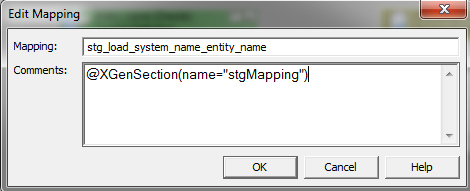
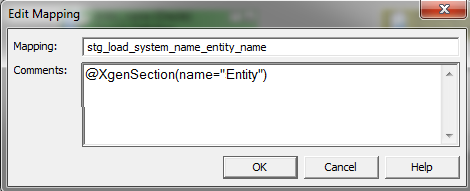
updated PC example

Changed region(s): [[0.1489, 0.3403, 0.6553, 0.5497]]

diff --git a/Documentation/docs/Examples/Informatica_PowerCenter/Simple_staging.md b/Documentation/docs/Examples/Informatica_PowerCenter/Simple_staging.md
@@ -45,7 +45,7 @@ _Mapping (4/4)_
 ![mapping_exp.PNG](img/mapping_exp-f7deab39-a9f9-4d27-a8ed-6a1df36dbc75.PNG)
 
 ### Template exported to XML
-The template exported to XML becomes:
+Now the template mapping is created in PowerDesigner. In order to use it with CrossGenerate, the mapping needs to be exported to XML. The export is shown below:
 ```xml
 <?xml version="1.0" encoding="UTF-8"?>
 <!DOCTYPE POWERMART SYSTEM "powrmart.dtd">
@@ -59,7 +59,7 @@ The template exported to XML becomes:
         <TARGETFIELD BUSINESSNAME ="" DATATYPE ="varchar2" DESCRIPTION ="@XGenSection(name=&quot;Attribute&quot;)" FIELDNUMBER ="1" KEYTYPE ="NOT A KEY" NAME ="attribute_name" NULLABLE ="NULL" PICTURETEXT ="" PRECISION ="10" SCALE ="0"/>
         <TARGETFIELD BUSINESSNAME ="" DATATYPE ="timestamp" DESCRIPTION ="" FIELDNUMBER ="2" KEYTYPE ="NOT A KEY" NAME ="StageDateTime" NULLABLE ="NULL" PICTURETEXT ="" PRECISION ="26" SCALE ="6"/>
     </TARGET>
-    <MAPPING DESCRIPTION ="@XgenSection(name=&quot;stgMapping&quot;)" ISVALID ="YES" NAME ="stg_load_system_name_entity_name" OBJECTVERSION ="1" VERSIONNUMBER ="1">
+    <MAPPING DESCRIPTION ="@XgenSection(name=&quot;Entity&quot;)" ISVALID ="YES" NAME ="stg_load_system_name_entity_name" OBJECTVERSION ="1" VERSIONNUMBER ="1">
         <TRANSFORMATION DESCRIPTION ="" NAME ="SQ_entity_name" OBJECTVERSION ="1" REUSABLE ="NO" TYPE ="Source Qualifier" VERSIONNUMBER ="1">
             <TRANSFORMFIELD DATATYPE ="string" DEFAULTVALUE ="" DESCRIPTION ="@XGenSection(name=&quot;Attribute&quot;)" NAME ="attribute_name" PICTURETEXT ="" PORTTYPE ="INPUT/OUTPUT" PRECISION ="10" SCALE ="0"/>
             <TABLEATTRIBUTE NAME ="Sql Query" VALUE =""/>
@@ -98,69 +98,113 @@ The template exported to XML becomes:
 ```
 
 ## Config
+The config contains al the additional information that CrossGenerate needs to combine model and template to working software. The most important functions that are configured are: 
+### Enrich the model with PowerCenter datatypes using Model Attribute Injection
+The model used as input for this example contains columns that are specified with a database-datatype (varchar, int, datetime etc). PowerCenter uses it's own set of datatypes. For the model to be used to map to a PowerCenter template, first the model needs to be enriched with PowerCenter datatype characteristics. This model enrichment is done using a specific CrossGenerate feature named Model Attribute Injection. This feature enables adding attributes to elements in the model.
+Model Attribute Injection is configured in the first part of the config shown below: Each database datatype used in the model is mapped to its corresponding PowerCenter datatype. This PowerCenter datatype is stored in the etldatatype XML attribute of the model's attribute. For some datatypes, such as integer, PowerCenter requires an explicit length where the database datatype does not. This can also be achieved using Model Attribute Injection. The xml snippet below shows an example of Model Attribute Injection configuration. 
+```xml
+<ModelAttributeInjection modelXPath="//attribute[@datatype='varchar']" targetAttribute="etldatatype" targetValue="string"/>
+<ModelAttributeInjection modelXPath="//attribute[@datatype='int']" targetAttribute="length" targetValue="10"/>
+   
+```
+
+### Prepare the PowerCenter template mapping using Template Placeholder Injection
+Before code can be generated using the PowerCenter template mapping and the enriched model, some alterations need to be performed on the template mapping.
+When developing a template PowerCenter mapping, a lot of elements can be made abstract using PowerCenter Designer. This means that for table or column names, a mapping can be developed against an abstract datamodel so the mapping is build using placeholder names, which automatically makes it a template. Other elements, for example data types, length, precision,  can not be made abstract; the IDE requires you to specify concrete, existing datatypes and lengths for columns. When applying a model to a template PowerCenter mapping, it is required that the data type, length and other characteristics are substituted from the model. This is only possible if the elements that need to be subsituted contain placeholders in the PowerCenter template mapping. Template Placeholder Injection enables inserting placeholders in a template in parts that cannot be made abstract from the IDE. An example of a template placeholder injection is shown below:
+```xml
+<TemplatePlaceholderInjection templateXPath="//SOURCEFIELD[@NAME='attribute_name']/@DATATYPE" modelNode="datatype" scope="current" />
+ <TemplatePlaceholderInjection templateXPath="//TRANSFORMFIELD[@NAME='attribute_name']/@DATATYPE"  modelNode="etldatatype" scope="current" />
+``` 
+The first line in the example puts a placeholder referencing the `datatype` attribute from the model in each `DATATYPE` attribute of `SOURCEFIELD` elements. The second line creates a placeholder for `etldatatype` in each `DATATYPE` attribute of `TRANSFORMIELD` elements. Note that for `SOURCEFIELD`, the database datatype is used but for `TRANSFORMFIELD`, the etldatatype is used that was added using Model Attribute Injection. 
+
+#### Specifying additional sections
+As can be seen in the config below, there is a section defined named `Attribute` that references Connector elements that have the placeholder `attribute_name` as `FROMFIELD` attribute value. This is done through the config since connectors cannot be annotated with a section annotation using PowerCenter Designer.
+```xml
+ <Section templateXPath="//MAPPING/CONNECTOR[@FROMFIELD='attribute_name']" name="Attribute"/>
+```
 ```xml
 <?xml version="1.0" encoding="UTF-8"?>
 <XGenConfig>
-  <Includes>
-    <Include src="../someotherconfig.xml"/>
-    <Include src="../otherconfig.xml"/>
-  </Includes>
-  <App/>    
   <Model>    
-    <AttributeInjections>
-      <AttributeInjection modelXPath="//Attribute[@datatype='varchar']" targetAttribute="etldatatype" targetValue="string"/>
-      <AttributeInjection modelXPath="//Attribute[@datatype='nvarchar']" targetAttribute="etldatatype" targetValue="nstring"/>
-    </AttributeInjections>
+    <ModelAttributeInjections>
+      <!-- set etl datatype -->
+      <ModelAttributeInjection modelXPath="//attribute[@datatype='varchar']" targetAttribute="etldatatype" targetValue="string"/>
+      <ModelAttributeInjection modelXPath="//attribute[@datatype='nvarchar']" targetAttribute="etldatatype" targetValue="nstring"/>      
+      <ModelAttributeInjection modelXPath="//attribute[@datatype='int']" targetAttribute="etldatatype" targetValue="integer"/>
+      <ModelAttributeInjection modelXPath="//attribute[@datatype='datetime']" targetAttribute="etldatatype" targetValue="date/time"/>
+      <ModelAttributeInjection modelXPath="//attribute[@datatype='decimal']" targetAttribute="etldatatype" targetValue="decimal"/>
+      <!-- set length, precision and scale where needed -->
+      <ModelAttributeInjection modelXPath="//attribute[@datatype='int']" targetAttribute="length" targetValue="10"/>
+      <ModelAttributeInjection modelXPath="//attribute[@datatype='int']" targetAttribute="precision" targetValue="10"/>
+      <ModelAttributeInjection modelXPath="//attribute[@datatype='datetime']" targetAttribute="length" targetValue="23"/>
+      <ModelAttributeInjection modelXPath="//attribute[@datatype='datetime']" targetAttribute="precision" targetValue="23"/>
+      <ModelAttributeInjection modelXPath="//attribute[@datatype='datetime']" targetAttribute="scale" targetValue="3"/>      
+      <!-- set precision for text fields -->
+      <ModelAttributeInjection modelXPath="//attribute[@datatype='varchar']" targetAttribute="precision" targetXPath="./@length"/>
+      <ModelAttributeInjection modelXPath="//attribute[@datatype='nvarchar']" targetAttribute="precision" targetXPath="./@length"/> 
+      <!--  set etl precision & scale-->
+      <ModelAttributeInjection modelXPath="//attribute" targetAttribute="etlprecision" targetXPath="./@length"/>      
+      <ModelAttributeInjection modelXPath="//attribute" targetAttribute="etlscale" targetValue="0"/>
+      <ModelAttributeInjection modelXPath="//attribute[@datatype='decimal']" targetAttribute="etlprecision" targetXPath="./@precision"/>      
+      <ModelAttributeInjection modelXPath="//attribute[@datatype='decimal']" targetAttribute="etlscale" targetXPath="./@scale"/>    
+      <ModelAttributeInjection modelXPath="//attribute[@datatype='datetime']" targetAttribute="etlprecision" targetValue="29"/>
+      <ModelAttributeInjection modelXPath="//attribute[@datatype='datetime']" targetAttribute="etlscale" targetValue="9"/>        
+    </ModelAttributeInjections>
   </Model>
-  <Template rootSectionName="system"> 
-    <FileFormat type="Informatica_PowerCenter" currentAccessor="_" childAccessor="$" templateType="xml" singleLineCommentPrefix="--" _multiLineCommentPrefix="/*" multiLineCommentSuffix="*/" annotationPrefix="@XGen" annotationArgsPrefix="(" annotationArgsSuffix=")" />
+  <Template rootSectionName="System">
+    <FileFormat type="Informatica_PowerCenter" commentNodeXPath="@DESCRIPTION" currentAccessor="_" childAccessor="$" templateType="xml" singleLineCommentPrefix="--" multiLineCommentPrefix="/*" multiLineCommentSuffix="*/" annotationPrefix="@XGen" annotationArgsPrefix="(" annotationArgsSuffix=")" />
+    <Output type="single_output" />
     <Sections>
-      <Section elementXpath="CONNECTOR[@FROMFIELD='attribute_name']" name="connector"/> 
+      <!--
+        A section name can be specified multiple times. This way the binded model elements will be bound for all sections with the same name.
+        In this example the 'Attribute' section is specified multiple times in the template, it here it is again specified from the config.
+        For explanation on the XPath syntax see:
+          - https://www.w3schools.com/xml/xpath_syntax.asp
+       -->
+      <Section templateXPath="//MAPPING/CONNECTOR[@FROMFIELD='attribute_name']" name="Attribute"/>
     </Sections>
-    <PlaceholderInjections>
-      <!--  attribute injection can either be related to other attribute in the same element that already contains a placeholder or unrelated  -->
-      <!--  targetValue should contain the accessor, scope is determined by the containing section -->
-      <!--  scope defines at what level placeholder will be resolved, can be either current or child so on a section that is on attribute level
-      datatype with curent scope will result in attribute_datatype -->
-      <PlaceholderInjection templateXPath="//SOURCEFIELD/@DATATYPE" modelNode="datatype" scope="current" />
-      <PlaceholderInjection templateXPath="//TRANSFORMFIELD/@DATATYPE"  modelNode="etldatatype" scope="current" />
-    </PlaceholderInjections>
+    <TemplatePlaceholderInjections>
+      <!--
+        The scope in the placeholder injection defines at what level placeholder will be resolved.
+        This can be either current or child (current is current element attributes and child is current element child elements).
+        In the first example we inject a placeholder in the DATATYPE attribute on the SOURCEFIELD element.
+        The full placeholder will be <section-placeholderName><scope-accessor><modelNode>.
+        In the first example it will be attribute_datatype.
+       -->
+      <TemplatePlaceholderInjection templateXPath="//SOURCEFIELD[@NAME='attribute_name']/@DATATYPE" modelNode="datatype" scope="current" />
+      <TemplatePlaceholderInjection templateXPath="//SOURCEFIELD[@NAME='attribute_name']/@LENGTH" modelNode="length" scope="current" />
+      <TemplatePlaceholderInjection templateXPath="//SOURCEFIELD[@NAME='attribute_name']/@PRECISION" modelNode="precision" scope="current" />
+      <TemplatePlaceholderInjection templateXPath="//SOURCEFIELD[@NAME='attribute_name']/@SCALE" modelNode="scale" scope="current" />
+      <TemplatePlaceholderInjection templateXPath="//TARGETFIELD[@NAME='attribute_name']/@DATATYPE" modelNode="datatype" scope="current" />
+      <TemplatePlaceholderInjection templateXPath="//TARGETFIELD[@NAME='attribute_name']/@LENGTH" modelNode="length" scope="current" />
+      <TemplatePlaceholderInjection templateXPath="//TARGETFIELD[@NAME='attribute_name']/@PRECISION" modelNode="precision" scope="current" />
+      <TemplatePlaceholderInjection templateXPath="//TARGETFIELD[@NAME='attribute_name']/@SCALE" modelNode="scale" scope="current" />      
+      <TemplatePlaceholderInjection templateXPath="//TRANSFORMFIELD[@NAME='attribute_name']/@DATATYPE"  modelNode="etldatatype" scope="current" />
+      <TemplatePlaceholderInjection templateXPath="//TRANSFORMFIELD[@NAME='attribute_name']/@LENGTH"  modelNode="etllength" scope="current" />
+      <TemplatePlaceholderInjection templateXPath="//TRANSFORMFIELD[@NAME='attribute_name']/@PRECISION"  modelNode="etlprecision" scope="current" />
+      <TemplatePlaceholderInjection templateXPath="//TRANSFORMFIELD[@NAME='attribute_name']/@SCALE"  modelNode="etlscale" scope="current" />
+    </TemplatePlaceholderInjections>
   </Template>
   <Binding>
-    <SectionModelBinding section="system" modelXPath = "/System" placeholderName="system">
-      <SectionModelBinding section="Entity" modelXPath="System/Entities/Entity[@generate='true']" placeholderName="Entity">
+    <!-- Configure the bindings on which models elements are bound to a specific section. -->
+    <SectionModelBinding section="System" modelXPath = "/modeldefinition/system" placeholderName="system">
+      <!--
+        Section bindings can be specified recursively.
+        For example entities exists within a system to it makes sense the binding is also defined inside the System section binding.
+        The modelXPath here is relative to its parent binding.
+       -->
+      <SectionModelBinding section="Entity" modelXPath="mappableObjects/entity" placeholderName="entity">
         <Placeholders>
-          <!-- For the placeholder the modelXPath is relative to its section model xpath. -->
-          <Placeholder name="System" modelXPath="../.." />                 
+          <!-- For the placeholder the modelXPath is relative to its section model XPath. -->
+          <Placeholder name="system" modelXPath="../.." />                 
         </Placeholders>
-        <SectionModelBinding section="Attribute" modelXPath="System/Entities/Entity[@generate='true']/Attribute" placeholderName="Attribute">
+        <SectionModelBinding section="Attribute" modelXPath="attributes/attribute" placeholderName="attribute">
           <Placeholders>
-            <!-- For the placeholder the modelXPath is relative to its section model xpath. -->
-            <Placeholder name="System" modelXPath="../../../../" />
-            <Placeholder name="Entity" modelXPath="../../" />                 
+            <Placeholder name="system" modelXPath="../../../.." />
+            <Placeholder name="entity" modelXPath="../.." />                 
           </Placeholders>    
-        </SectionModelBinding>        
-       </SectionModelBinding>             
-       <SectionModelBinding section="stgMapping" modelXPath="System/Entities/Entity[@generate='true']" placeholderName="Entity">
-        <Placeholders>
-          <!-- For the placeholder the modelXPath is relative to its section model xpath. -->
-          <Placeholder name="System" modelXPath="../.." />                 
-        </Placeholders>
-        <SectionModelBinding section="Attribute" modelXPath="System/Entities/Entity[@generate='true']/Attribute" placeholderName="Attribute">
-          <Placeholders>
-            <!-- For the placeholder the modelXPath is relative to its section model xpath. -->
-            <Placeholder name="System" modelXPath="../../../../" />
-            <Placeholder name="Entity" modelXPath="../../" />                 
-          </Placeholders>      
-        </SectionModelBinding>
-        <SectionModelBinding section="connector" modelXPath="System/Entities/Entity[@generate='true']/Attribute" placeholderName="Attribute">
-          <Placeholders>
-            <!-- For the placeholder the modelXPath is relative to its section model xpath. -->
-            <Placeholder name="System" modelXPath="../../../../" />
-            <Placeholder name="Entity" modelXPath="../../" />                 
-          </Placeholders>      
-        </SectionModelBinding>
-      </SectionModelBinding>  
+				</SectionModelBinding>        
+			</SectionModelBinding>
     </SectionModelBinding>    
   </Binding>
 </XGenConfig>
